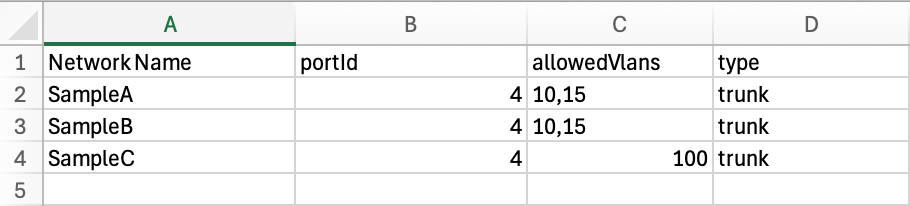
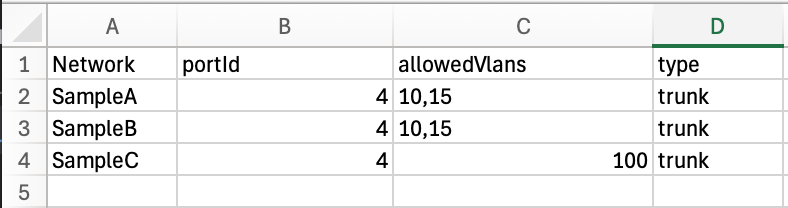
small change

diff --git a/src/main.py b/src/main.py
@@ -69,7 +69,7 @@ def main():
 
         for appliance_port_config in appliance_port_configs:
             # Extract Network Name and Port ID
-            net_name = appliance_port_config.get('Network Name', 'Unknown')
+            net_name = appliance_port_config.get('Network', 'Unknown')
             port_id = appliance_port_config.get('portId', 'Unknown')
 
             log_p.info(f"Processing `{net_name}`, `port {port_id}` ({counter} of {len(appliance_port_configs)}):")
@@ -84,7 +84,7 @@ def main():
                 continue
             else:
                 net_id = meraki_api.net_name_to_ids[net_name]
-                del appliance_port_config['Network Name']
+                del appliance_port_config['Network']
 
             # Check Port ID provided, extract value
             if 'portId' not in appliance_port_config or port_id == 'Unknown':

diff --git a/README.md b/README.md
@@ -27,7 +27,7 @@ In order to use the Meraki API, you need to enable the API for your organization
 ## CSV Files
 1 input CSV File is required (must be in the `src` folder!). By default `mx_allowed_vlans_sample.csv` is selected (configured in `src` > `config` > `settings.py`). A CSV file can also be provided via CLI arguments (see `Usage` section).
 
-The CSV file **MUST** include the `Network Name` and `portId` columns. All additional CSV Column Headers come from the Meraki [API Call](https://developer.cisco.com/meraki/api-v1/update-network-appliance-port/). The column header names must match the API field names exactly and follow the rules specified in the documentation (they are passed as is into the API).
+The CSV file **MUST** include the `Network` and `portId` columns. All additional CSV Column Headers come from the Meraki [API Call](https://developer.cisco.com/meraki/api-v1/update-network-appliance-port/). The column header names must match the API field names exactly and follow the rules specified in the documentation (they are passed as is into the API).
 
 **Note**: The included example file shows configuring explicit Allowed VLANs on port 4 for various networks.
 
